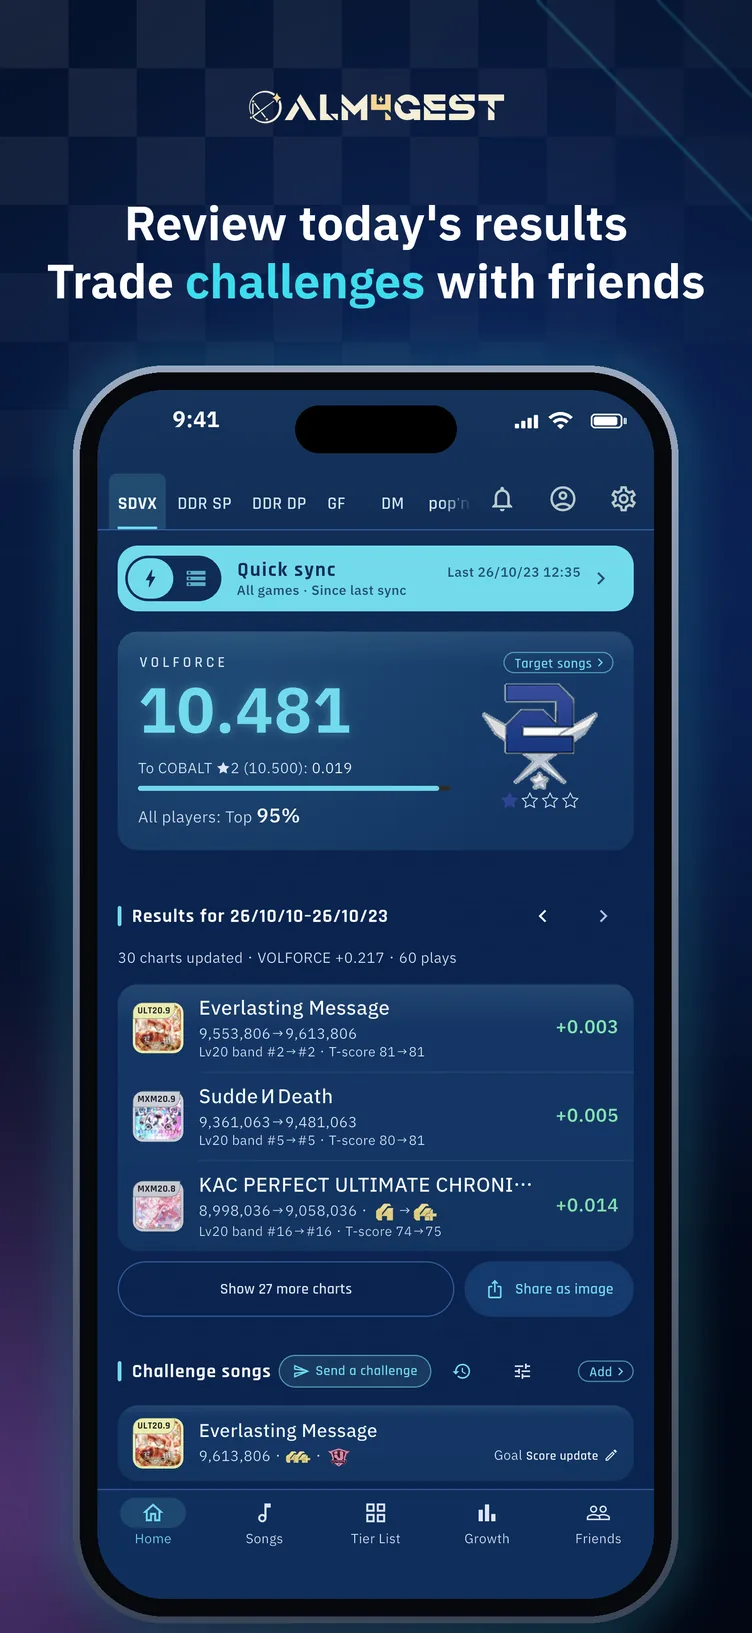
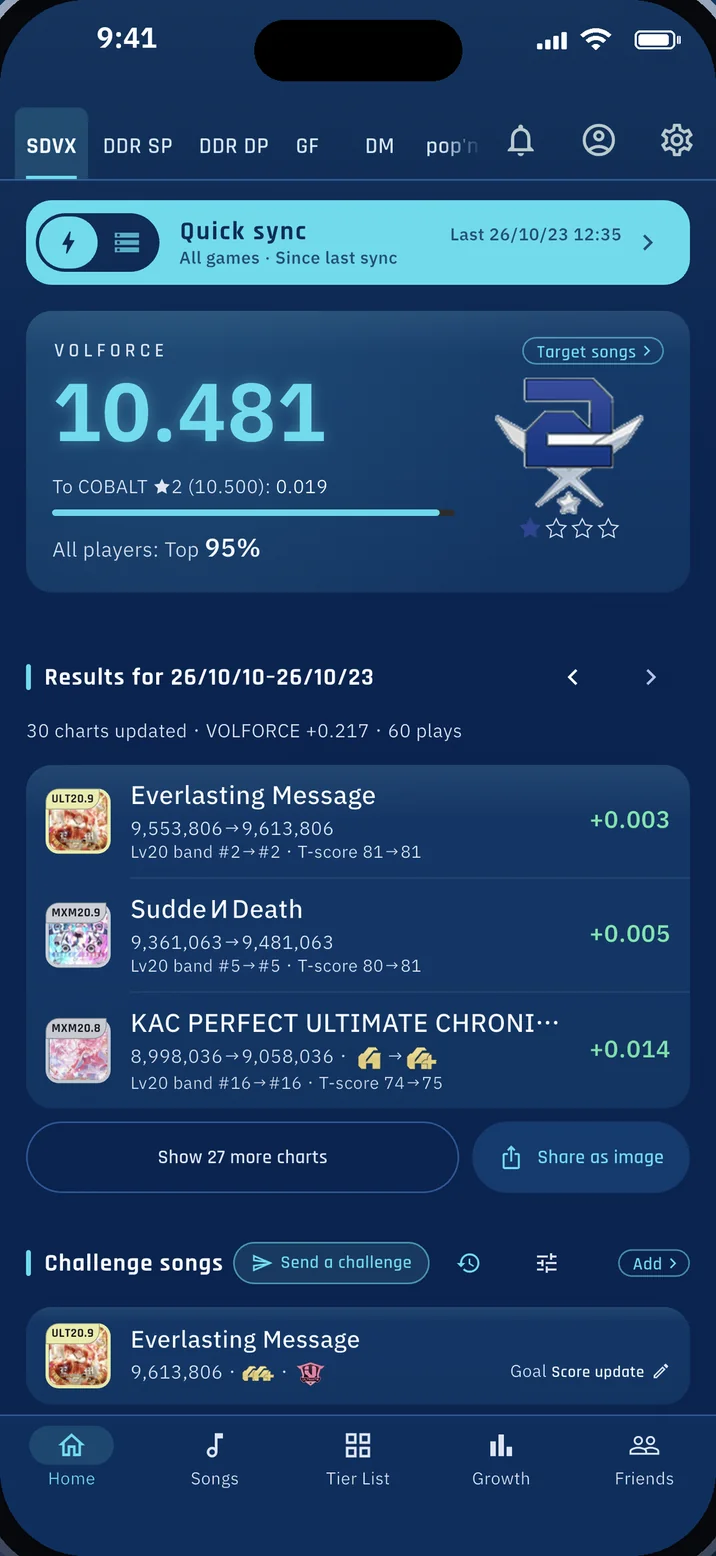
トップの画像をストア画像そのものから中の画面の切り出しに直し、元の端末枠へ戻す
Claude-Session: https://claude.ai/code/session_01QKGbUHK1M547cGEHESTRxr

diff --git a/_layouts/home.html b/_layouts/home.html
@@ -57,9 +57,12 @@ layout: default
           {%- for f in shot_files %}
           {%- assign name = i.shots.names[forloop.index0] %}
           <li class="shots-slide" id="shot-{{ forloop.index }}">
-            <img class="hero-shot" src="/assets/img/shots/store/{{ shot_dir }}/{{ f }}.webp"
-                 alt="{{ i.logo_alt }} — {{ name }}" width="752" height="1633"
-                 {% if forloop.first %}fetchpriority="high"{% else %}loading="lazy"{% endif %}>
+            <div class="phone">
+              <img class="hero-mock" src="/assets/img/shots/store/{{ shot_dir }}/{{ f }}.webp"
+                   alt="{{ i.logo_alt }} — {{ name }}" width="358" height="778"
+                   {% if forloop.first %}fetchpriority="high"{% else %}loading="lazy"{% endif %}>
+              <span class="phone-island" aria-hidden="true"></span>
+            </div>
             <span class="shots-caption">{{ name }}</span>
           </li>
           {%- endfor %}

diff --git a/assets/css/style.css b/assets/css/style.css
@@ -1333,7 +1333,3 @@ html[lang="ko"] .hero-lead {
 @media (max-width: 859px) {
   .lang-drop > summary { width: auto; gap: 6px; padding: 0 10px; }
 }
-/* ストア用の画像（端末枠とコピー入り）をそのまま見せる */
-.hero-shot { display: block; width: 100%; height: auto; border-radius: 22px; box-shadow: 0 0 0 1px var(--hairline), 0 18px 40px rgba(0, 0, 0, 0.35); }
-@media (max-width: 859px) { .hero-shot { border-radius: 16px; } }
-@media (min-width: 860px) { .shots { width: 340px; } }
